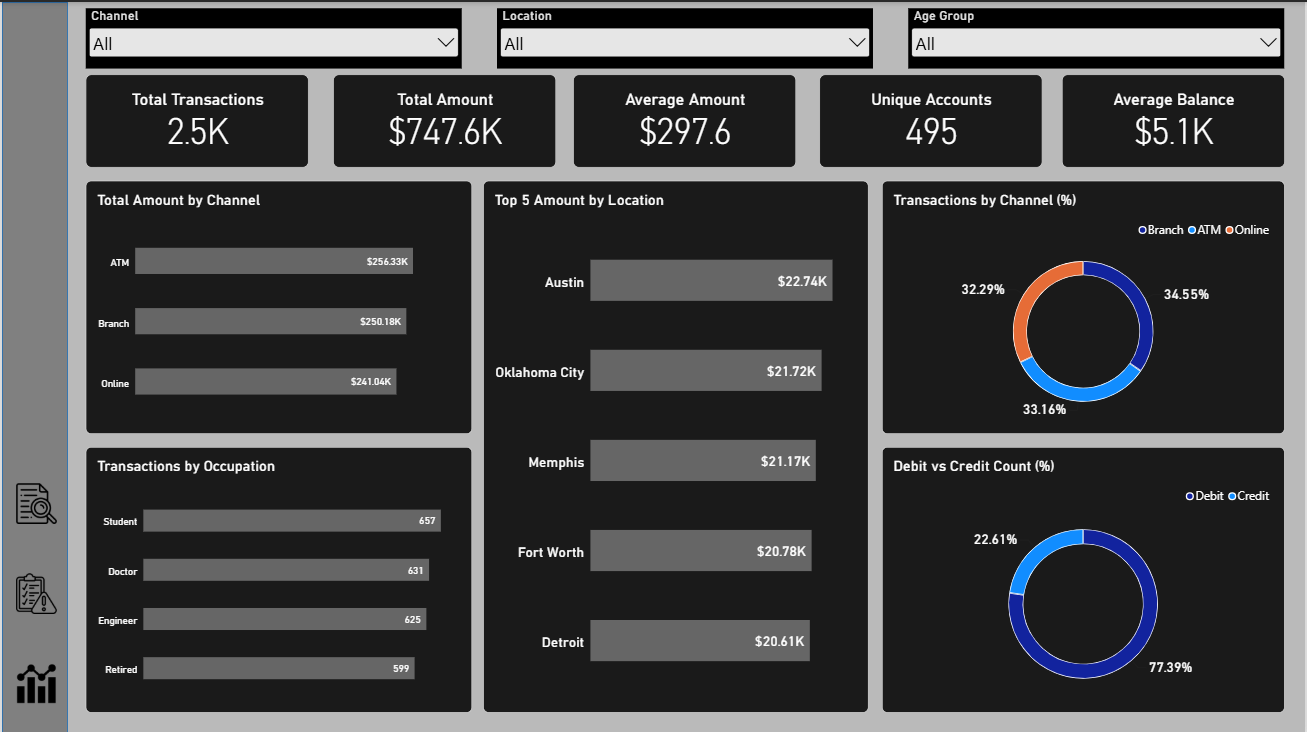
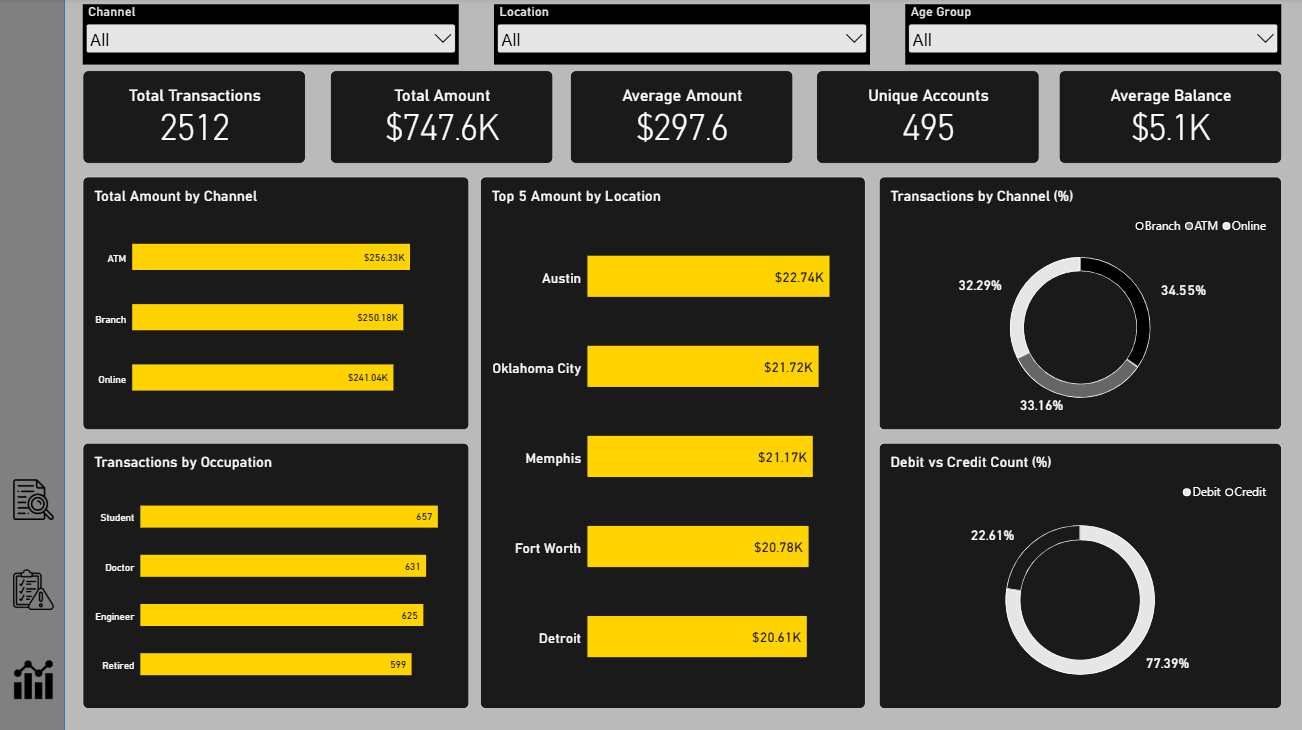
Trends visual and README update

diff --git a/README.md b/README.md
@@ -65,13 +65,17 @@ Slicers: Channel, Location, Age Group.
 | Which channel and age group have the highest repeated-login share? | Bar charts |
 | Which accounts have repeated login attempts? | Table |
 
-### 3. Trends (in progress)
+### 3. Trends
+
+Covers 2 Jan to 31 Dec 2023. Transactions on 1 Jan 2024 form a one-day partial period and are excluded from this page.
 
 | Question | Visual |
 |---|---|
+| What is the average monthly amount, the peak month and the year-to-date amount? | KPI cards |
 | What is the monthly amount trend? | Line chart |
-| What is the month-over-month change? | Column chart |
-| What is the year-to-date amount? | Card |
+| What is the month-over-month change? | Column chart (red/green by sign) |
+| How does the year-to-date total compare with the rolling 3-month total? | Line chart |
+| How does the repeated-login share change by month? | Column chart |
 
 ## Key findings
 
@@ -92,7 +96,11 @@ Slicers: Channel, Location, Age Group.
 
 ### Trends
 
-To be added once the Trends page is complete.
+- The average month brings in about **$62.1K**, and the 2023 total is about **$745.5K**.
+- **September 2023 is the peak month** (about $73K), after a steady climb from July.
+- **April 2023 is the low point** at about $41K (-32.8% month over month), followed by a +53.3% rebound in May. Treat May as recovery from a dip, not as underlying growth.
+- Outside April and May, monthly swings stay within roughly +/-12% (largest other moves: +21.4% in August, -11.2% in October).
+- The repeated-login share (3+ attempts) ranges from 2.05% (July) to 5.50% (February). Each month has roughly 200 transactions, so the monthly flagged counts are small and the month-to-month pattern is directional.
 
 ## DAX highlights
 
@@ -102,7 +110,8 @@ Full list with explanations in [`dax/measures.md`](dax/measures.md). Concepts us
 - Filter context: `CALCULATE`, `ALL`, `REMOVEFILTERS`, `VALUES`
 - Logic: `VAR / RETURN`, `SWITCH(TRUE())`, `IF`
 - Statistics: `PERCENTILE.INC` for a data-driven risk threshold
-- Time intelligence: `TOTALYTD`, `PREVIOUSMONTH`
+- Time intelligence: `TOTALYTD`, `PREVIOUSMONTH`, `DATESINPERIOD` (rolling 3 months)
+- Iterators: `AVERAGEX` over `VALUES` for the average monthly amount
 - Ranking: `RANKX`, `TOPN`
 
 ## Repository structure
@@ -120,7 +129,7 @@ bank-transaction-analysis/
 
 | Overview | Risk | Trends |
 |---|---|---|
-| ![Overview](images/Overview.png) | ![Risk](images/Risk.png) | ![Trends](images/Trends.png) |
+| ![Overview](screenshots/overview.png) | ![Risk](screenshots/risk.png) | ![Trends](screenshots/trends.png) |
 
 ## How to open
 
@@ -137,7 +146,8 @@ Power BI Desktop, Power Query (M), DAX
 
 - The data is a single snapshot with no fraud label, so risk indicators are rule-based and should be validated against confirmed fraud cases.
 - The risk segments are small (about 30 to 40 flagged transactions per channel or age group), so segment differences are directional.
-- Next steps: complete the Trends page, add a Region field to `Dim_Location` for a map view, and publish the report to Power BI Service.
+- The data covers a single year, so year-over-year comparisons are not possible, and the Trends page is limited to month-over-month, year-to-date and rolling views.
+- Next steps: investigate the April 2023 dip (fewer transactions or smaller ones), add a Region field to `Dim_Location` for a map view, and publish the report to Power BI Service.
 
 ## Author
 

diff --git a/dax/measures.md b/dax/measures.md
@@ -29,6 +29,18 @@ CALENDAR(
 
 Creates one row per date between the first and last transaction. Mark it as a date table so time intelligence works.
 
+Helper columns on `Calendar` (Table tools > New column):
+
+```dax
+Year = YEAR(Calendar[Date])
+Month Label = FORMAT(Calendar[Date], "MMM yyyy")
+Month Sort = YEAR(Calendar[Date]) * 100 + MONTH(Calendar[Date])
+```
+
+Set `Month Label` > Column tools > Sort by column > `Month Sort`, otherwise months sort alphabetically on chart axes.
+
+The data runs from 2 Jan 2023 to 1 Jan 2024. The Trends page uses a page-level filter `Calendar[Year] = 2023` to exclude the one-day 2024 stub, which would otherwise create a near-empty 13th month and distort MoM % and YTD.
+
 ---
 
 ## 2. Core KPIs
@@ -195,6 +207,30 @@ RETURN
 ```
 Month-over-month growth. The first month is blank because it has no previous month.
 
+```dax
+Avg Monthly Amount =
+AVERAGEX(VALUES(Calendar[Month Label]), [Total Amount])
+```
+Average of the monthly totals. `VALUES` makes the iterator visit each month in context, and `[Total Amount]` is evaluated per month through context transition.
+
+```dax
+Rolling 3M Amount =
+CALCULATE(
+    [Total Amount],
+    DATESINPERIOD(Calendar[Date], MAX(Calendar[Date]), -3, MONTH)
+)
+```
+Total amount over the 3 months ending at the last date in each cell. It is a 3-month total, not an average. The first two months use shorter windows because earlier data does not exist.
+
+```dax
+Peak Month =
+MAXX(
+    TOPN(1, VALUES(Calendar[Month Label]), [Total Amount]),
+    Calendar[Month Label]
+)
+```
+Name of the month with the highest total amount. `TOPN` returns a one-row table and `MAXX` turns it into a single text value.
+
 ---
 
 ## 7. Ranking
@@ -236,6 +272,8 @@ Share of total amount contributed by the top 5 locations.
 | `CALCULATE` replaces filters only on the columns it names | Sections 3 and 5 |
 | `ALL` in the denominator for percent of total | Sections 3 and 7 |
 | `ALL` inside a variable to fix a threshold across slicers | Section 5 |
+| Iterate over `VALUES` of a grouping column, then aggregate | Section 6 (`Avg Monthly Amount`) |
+| `DATESINPERIOD` anchored on `MAX(date)` for rolling windows | Section 6 |
 | `VAR / RETURN` for readability and a single evaluation | Sections 5 and 6 |
 | Table functions (`TOPN`, `PREVIOUSMONTH`) sit inside `CALCULATE` | Sections 6 and 7 |
 | `RANKX` over `ALL`, never `VALUES` | Section 7 |
